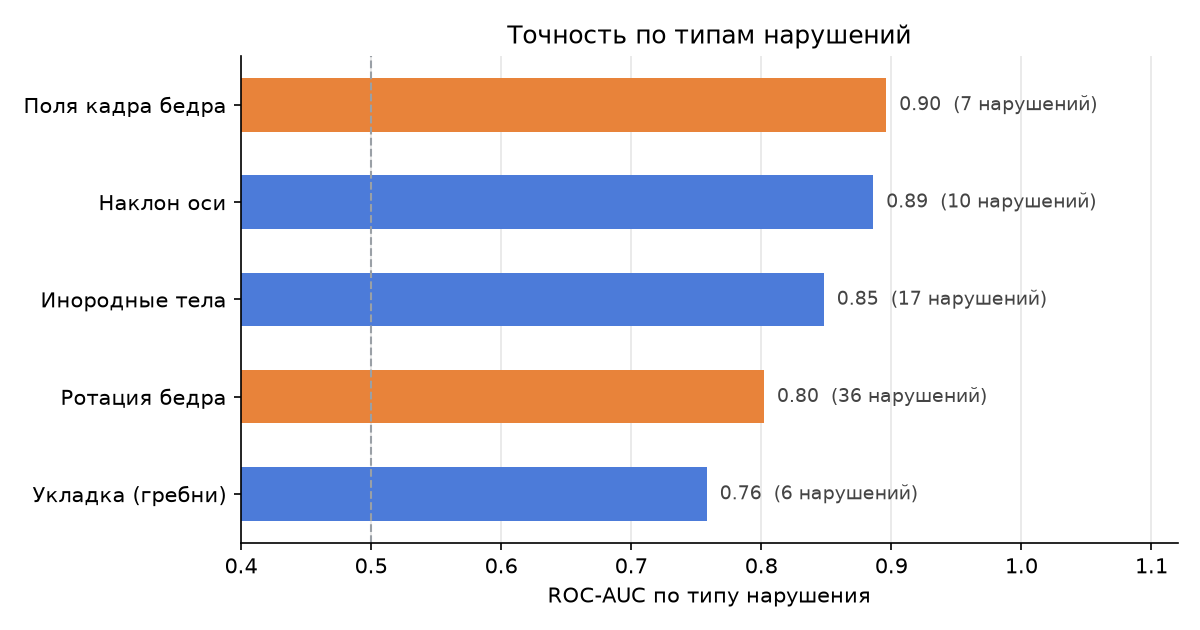
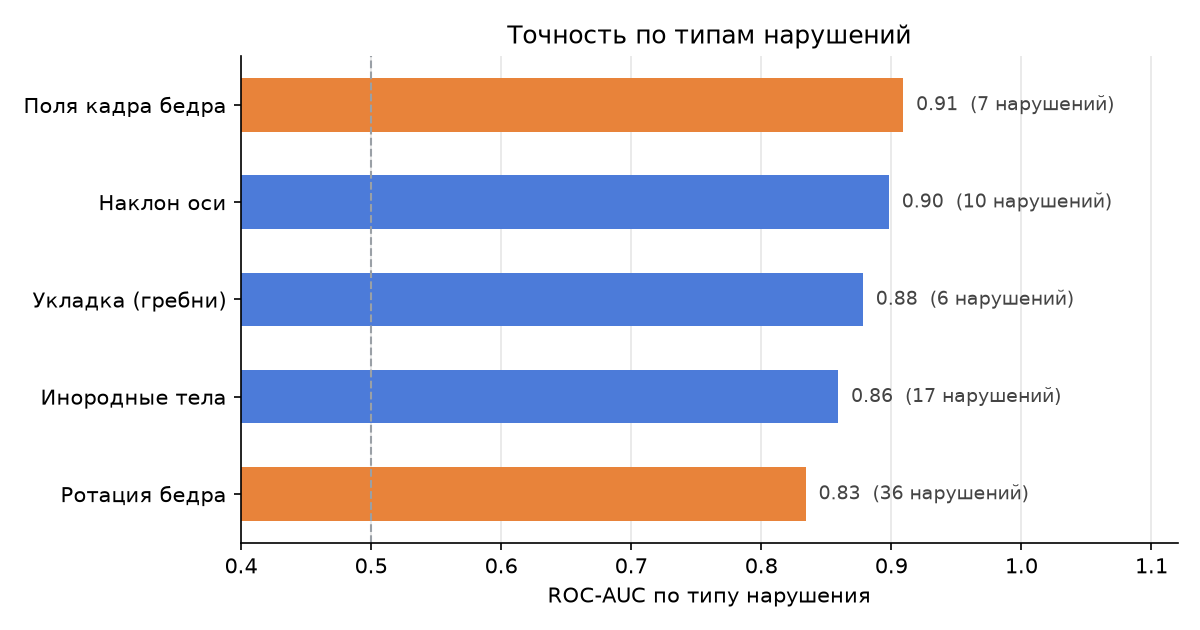
Сквозные метрики после подтяжки: AUC 0.857, F1 0.674
Обновлены цифры в README и черновике презентации, перерисованы графики,
в отчёт добавлен раздел о том, что сработало и что нет.

Проверено и отброшено: профиль медиального контура (AUC 0.52), мелкая
сетка HOG, PCA, бустинг и ансамбли, дрожание кропов, процентильное
объединение типов, багированные пороги, выбор политики порога по типу,
второй признак для укладки позвоночника.

Измерен потолок детектора: ротация на ручных кропах 0.789 против 0.825
на кропах детектора, то есть улучшать детектор ради ротации незачем.

diff --git a/docs/night_report.md b/docs/night_report.md
@@ -357,6 +357,55 @@ Exposed Area. По Y — нет, и на выгруженных снимках 1
 аппарате его использовать нельзя без повторной проверки. Это ограничение мы нашли сами, до жюри,
 и именно так о нём и говорим.
 
+## 15. Подтяжка моделей: что дало эффект, а что нет
+
+Итог: **ROC-AUC 0.824 → 0.857, F1 0.645 → 0.674**, специфичность 0.69 → 0.77 при чувствительности 0.79.
+Всё измерено одинаково: кросс-валидация по пациентам, признаки от детектора, не видевшего снимок.
+
+### Сработало
+
+| Что | Эффект |
+|---|---|
+| Калибровка по **процентилю** оценки вместо сырой шкалы | v_pos 0.758 → 0.878, всего +0.016 AUC |
+| Инородные тела: **один признак** вместо трёх | AUC по фолдам 0.869 → 0.893, F1 0.681 → 0.709 |
+| **Общий порог** вердикта вместо раздельных по областям | F1 0.636 → 0.656 |
+| Ротация: **ближний план** шейки и малого вертела в признаках | 0.789 → 0.791 |
+| Ротация: обучение **на кропах детектора** наравне с ручными | 0.791 → 0.807, разброс вдвое меньше |
+| Ротация: **ExtraTrees** вместо случайного леса | 0.807 → 0.825 |
+| Ротация: подмешивание **второго бедра того же пациента** | F1 типа 0.494 → 0.594 |
+
+Про калибровку подробнее: Платт-сигмоида, подогнанная на 6–17 положительных примерах, в каждом фолде
+получалась своей, и вероятности из разных фолдов оказывались в разных шкалах. Само ранжирование внутри
+фолда было правильным — терялось именно при объединении и при noisy-OR по типам. Калибровка процентиля
+решает это: шкала [0, 1] одинакова в любом фолде.
+
+Про второе бедро: оба бедра укладывают в одну сессию, и метки ротации левого и правого совпадают
+гораздо чаще случайного — корреляция 0.59, вероятность нарушения справа при нарушении слева 0.67
+против базовых 0.24. Мы это раньше не использовали.
+
+### Не сработало (проверено и отброшено)
+
+- **Профиль медиального контура** — «выступ малого вертела», то самое, на что смотрит врач: AUC 0.52.
+  Контур на этом разрешении не даёт устойчивого выступа.
+- **Мелкая сетка HOG** (8 пикс) — 0.754 против 0.789; **PCA-сжатие** признаков — 0.70–0.74.
+- **Бустинг и логистическая регрессия** вместо леса, ансамбли из них — не лучше.
+- **Дрожание кропов** при обучении — 0.811 против 0.807 при большем разбросе.
+- **Объединение типов через процентили** — лучше для позвоночника (+0.014), заметно хуже для бедра (−0.034).
+- **Багированные пороги** и **выбор политики порога по типу внутри фолдов** — macro-F1 не растёт.
+- **Второй признак для укладки позвоночника** (охват, расстояние гребней до края, их наклон) — ни один
+  не улучшает уверенность сети в гребнях (0.878).
+
+### Где потолок
+
+Отдельно проверили, сколько теряется из-за неточности детектора точек: модель ротации, проверенная
+на **ручных** кропах, даёт 0.789 против 0.825 на кропах детектора. То есть идеальный детектор ротации
+не улучшил бы — вкладываться в него смысла нет. Для полей кадра бедра ручные точки лучше по нижнему
+полю (0.927 против 0.860) и хуже по верхнему (0.792 против 0.857).
+
+Оставшиеся ограничения — это число примеров: наклон оси 10 нарушений, укладка 6, поля кадра 7.
+При таких количествах F1 по отдельным типам нестабилен по определению, и это видно по доверительным
+интервалам.
+
 ## 6. Что дальше / вопросы
 
 - Пороги сейчас подобраны на максимум F1 по нашим меткам; для врача, возможно, важнее чувствительность — обсудить.

diff --git a/docs/pitch_outline.md b/docs/pitch_outline.md
@@ -53,15 +53,16 @@
 
 | | ROC-AUC | F1 | Чувств. | Специф. |
 |---|---|---|---|---|
-| Позвоночник | 0.81 [0.71–0.89] | 0.66 [0.53–0.78] | 0.78 | 0.72 |
-| Бёдра | 0.82 [0.76–0.90] | 0.61 [0.51–0.73] | 0.81 | 0.68 |
-| Всего | 0.83 [0.76–0.88] | 0.64 [0.56–0.72] | 0.82 | 0.69 |
+| Позвоночник | 0.85 [0.77–0.92] | 0.68 [0.56–0.80] | 0.80 | 0.75 |
+| Бёдра | 0.87 [0.80–0.93] | 0.67 [0.56–0.78] | 0.79 | 0.79 |
+| Всего | 0.86 [0.80–0.91] | 0.67 [0.59–0.76] | 0.79 | 0.77 |
 
 Рабочая точка выбрана по целевой чувствительности 0.80 (политика `screening`): она лучше и по F1
 (0.642 против 0.629), и по сбалансированной точности (0.758 против 0.737), чем прежнее правило
 «сработал хотя бы один тип». Переключается одной переменной окружения.
 
-По типам нарушений: наклон оси 0.89, укладка 0.76, инородные тела 0.85, поля кадра бедра 0.90, ротация 0.80.
+По типам нарушений: наклон оси 0.90, укладка позвоночника 0.88,
+инородные тела 0.86, поля кадра бедра 0.91, ротация 0.83.
 
 Детектор точек: медиана 0.6–6.4 мм в зависимости от точки (`figures/detector_errors.png`).
 
